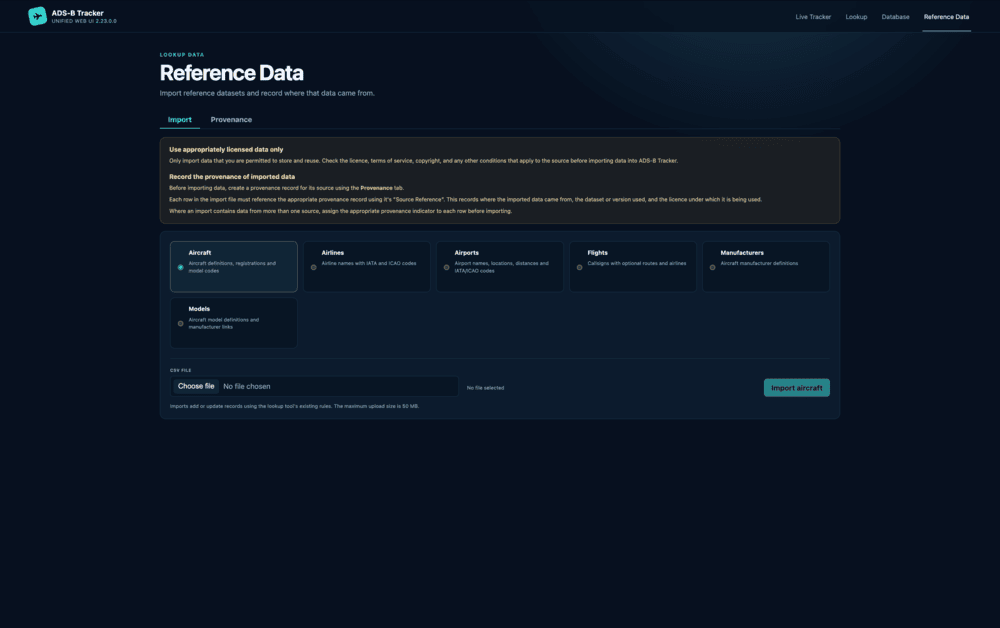
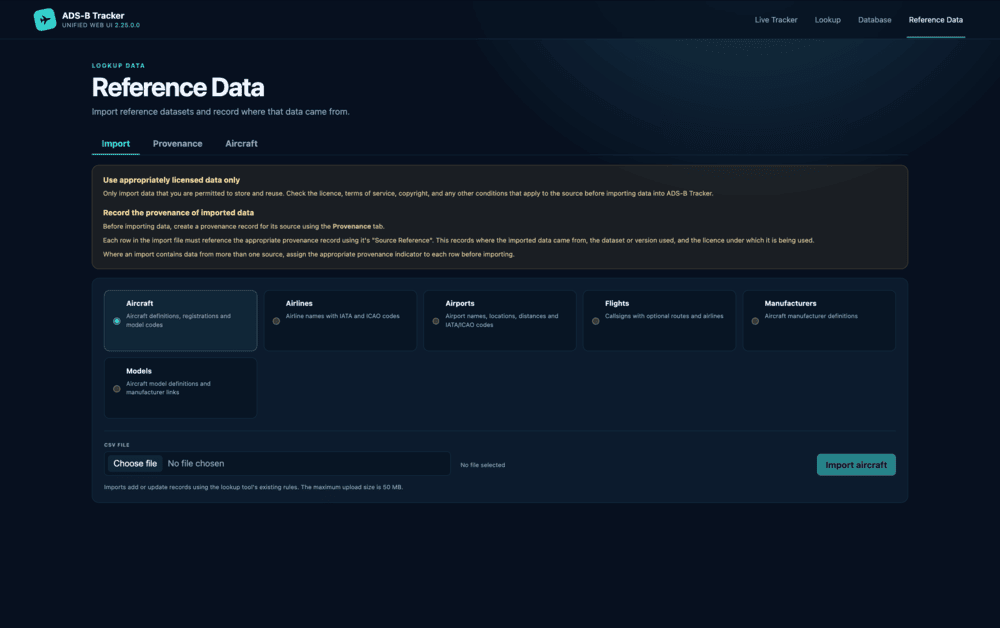
Updated the documentation

diff --git a/README.md b/README.md
@@ -162,7 +162,9 @@ The **Reference Data** area provides tools for maintaining the locally curated i
 
 - Import
 - Provenance
-- Aircraft and Callsign Exclusion Management
+- Aircraft
+
+The **Aircraft** tab searches reference records by ICAO address or registration and supports manual addition, editing and confirmed deletion. Manufacturer selection filters the available models, and each aircraft is linked to the provenance record describing its source. Aircraft records remain searchable during live tracking, but cannot be added, changed or deleted until the session ends.
 
 This organisation reinforces the distinction between observed ADS-B data, transient contextual information and locally managed enrichment data.
 
